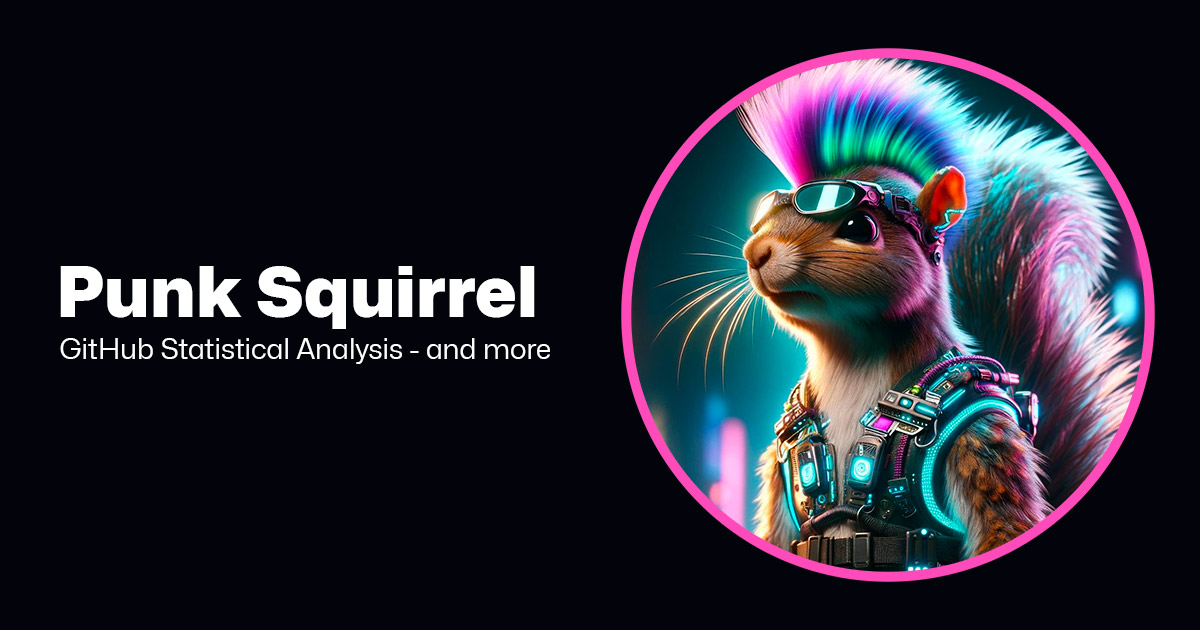
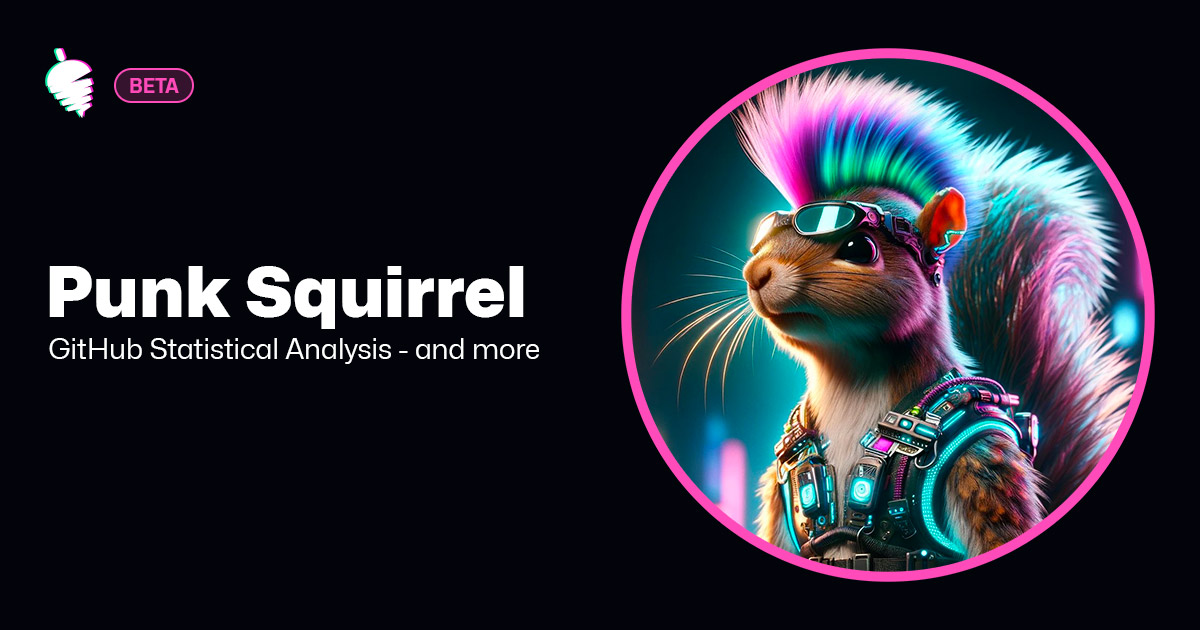
feat: add weekend styles to ticks and update og image

diff --git a/app/routes/app.repository.commits/route.jsx b/app/routes/app.repository.commits/route.jsx
@@ -533,7 +533,7 @@ const Page = () => {
                       />
 
                       {data.ticks.map((tick, index) => {
-                        const { date, x, y } = tick;
+                        const { date, x, y, weekend } = tick;
 
                         return (
                           <g
@@ -549,7 +549,7 @@ const Page = () => {
                               y={y}
                               textAnchor='middle'
                               style={{
-                                fill: '#7d8590',
+                                fill: weekend ? '#49525e' : '#7d8590',
                                 fontSize: '1.2rem',
                                 fontFamily: 'Plus Jakarta Sans',
                                 fontWeight: 600,

diff --git a/app/routes/app.repository.issues/route.jsx b/app/routes/app.repository.issues/route.jsx
@@ -569,7 +569,7 @@ const Page = () => {
                       />
 
                       {data.ticks.map((tick, index) => {
-                        const { date, x, y } = tick;
+                        const { date, x, y, weekend } = tick;
 
                         return (
                           <g
@@ -585,7 +585,7 @@ const Page = () => {
                               y={y}
                               textAnchor='middle'
                               style={{
-                                fill: '#7d8590',
+                                fill: weekend ? '#49525e' : '#7d8590',
                                 fontSize: '1.2rem',
                                 fontFamily: 'Plus Jakarta Sans',
                                 fontWeight: 600,

diff --git a/app/utils/create-ticks.js b/app/utils/create-ticks.js
@@ -1,5 +1,10 @@
 import { formatTick } from './format-tick';
 
+const isWeekend = (date) => {
+  const day = new Date(date).getDay();
+  return day === 0 || day === 6;
+};
+
 export const createTicks = (array, chartWidth, _chartHeight, paddingR, paddingL) => {
   const totalTicks = Math.min(array.length, 30);
 
@@ -17,8 +22,11 @@ export const createTicks = (array, chartWidth, _chartHeight, paddingR, paddingL)
       const x = x_ratio * (chartWidth - paddingR * 2 - paddingL);
       const y = _chartHeight;
 
+      console.log();
+
       return {
         date: formatTick(date),
+        weekend: isWeekend(date),
         x: x + 45 + paddingL,
         y: y + 45,
       };

diff --git a/tailwind.config.js b/tailwind.config.js
@@ -18,6 +18,7 @@ export default {
           'punk-pink': '#f21cca',
           'light-gray': '#c9d1d9',
           'mid-gray': '#7d8590',
+          'base-gray': '#49525e',
           'dark-gray': '#30363d',
           'guide-gray': '#353c44',
           border: '#21262d',
